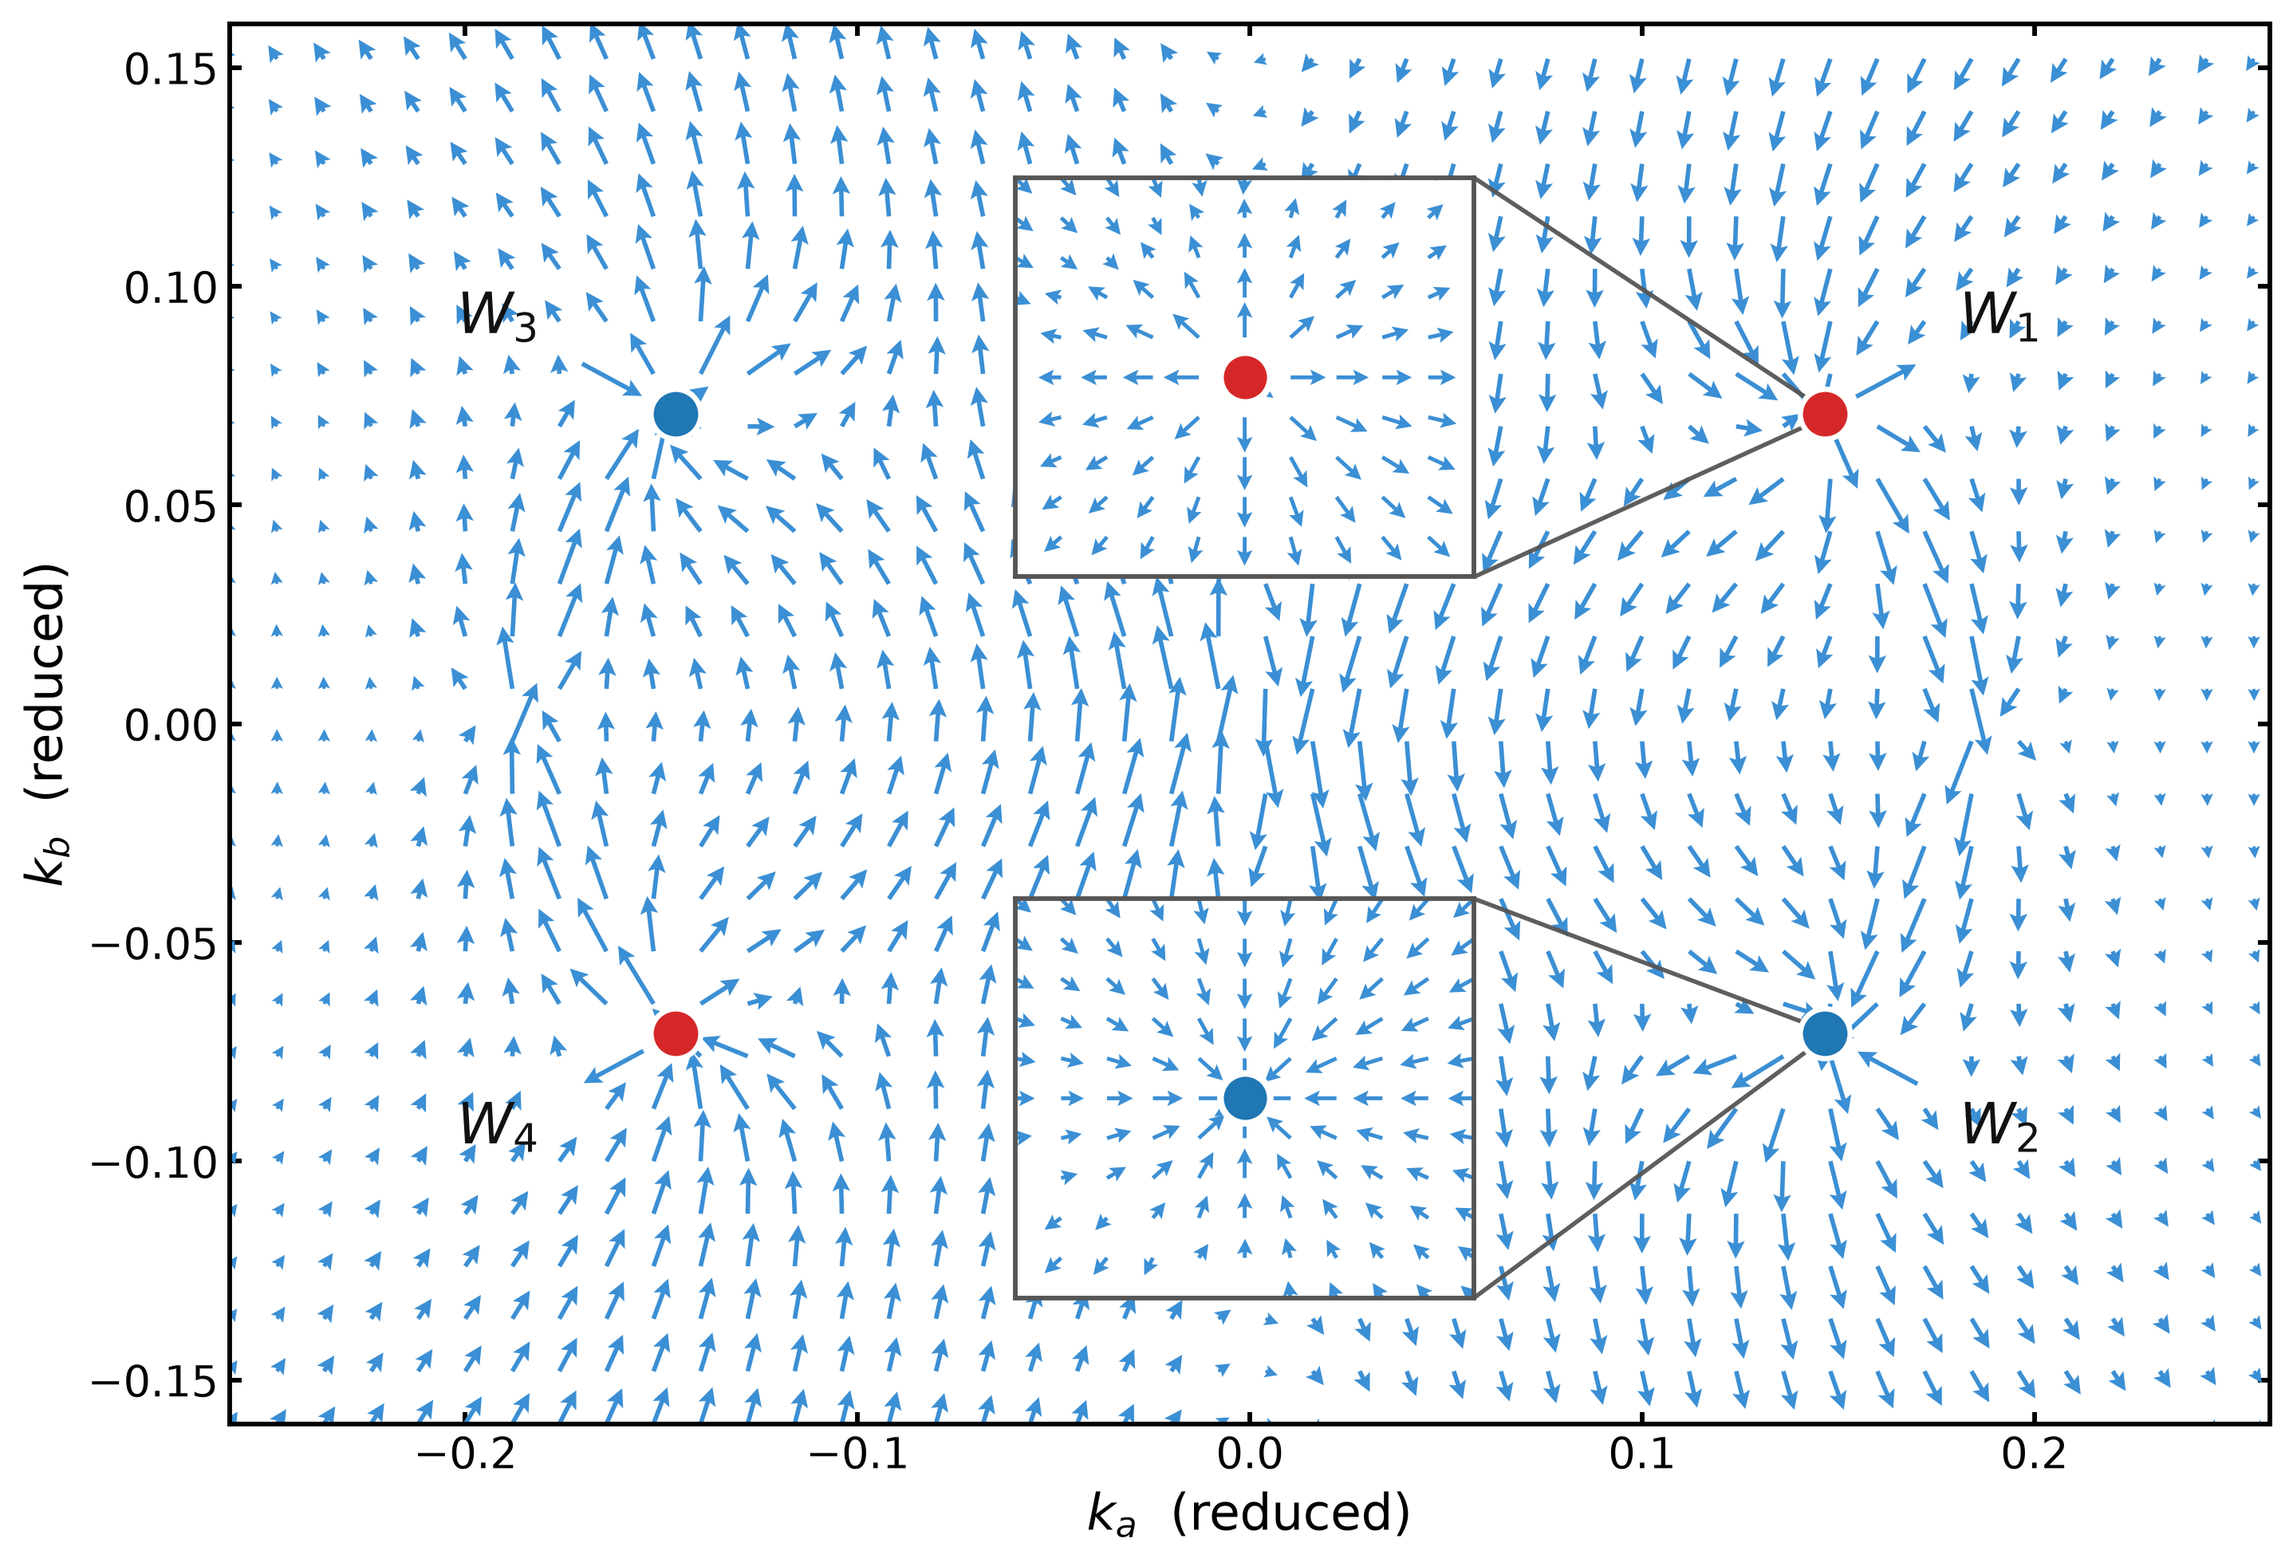
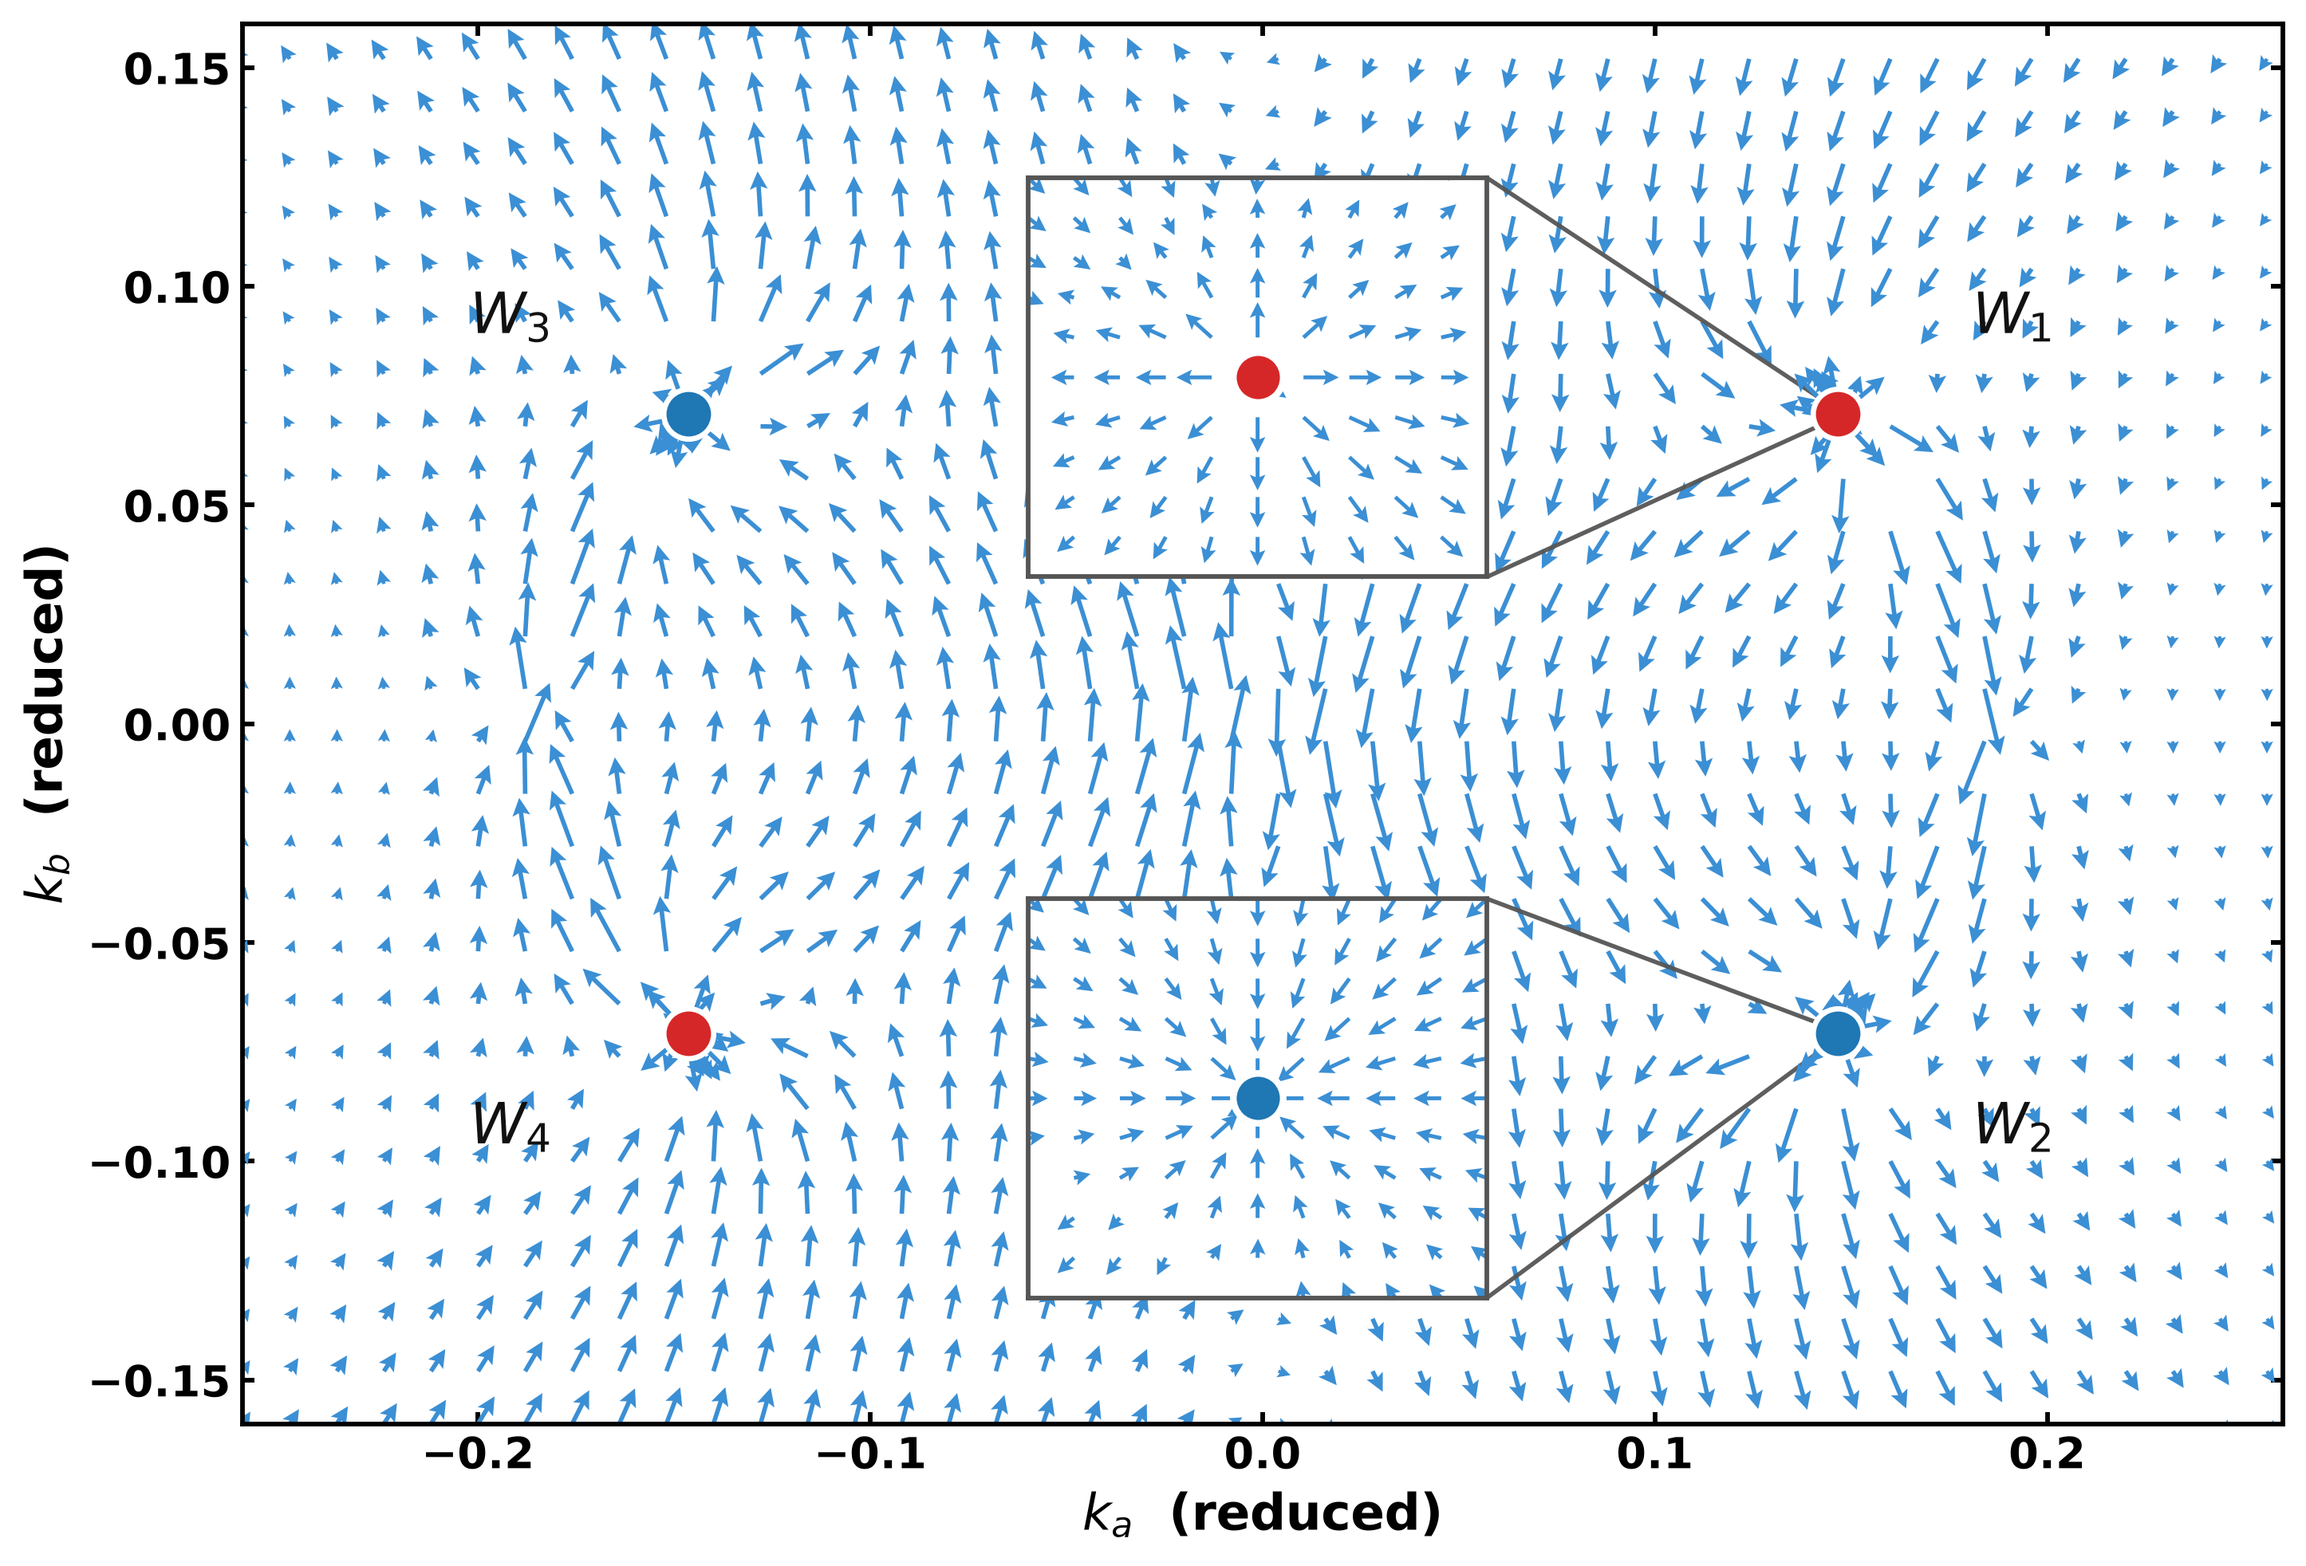
fig9: 노드 최근접 링 복원(실측·배경제거), 글자 bold
- 단일 화살표 대신 노드마다 실측 링(r=0.0006, 0.0025 / 각 8방향)을 다시 얹었다.
  격자와 같은 quiver 호출, 같은 scaled() 스케일링이라 규격이 완전히 동일하다.
- 겹치는 격자 화살표는 선분 최소거리(0.085 inch) 로 판정해 제거.
- 축 라벨과 눈금 라벨을 bold 로 (노드 라벨은 이미 bold).

Claude-Session: https://claude.ai/code/session_01QhAUpBYpemnn6yKhi2Mgwn

diff --git a/scripts/figs/fig9_berry_field.py b/scripts/figs/fig9_berry_field.py
@@ -231,17 +231,13 @@ SCALE, WIDTH = 30, 0.0022
 GX, GY = A.ravel(), B.ravel()
 GU, GV = (c.ravel() for c in scaled(Oa[::st, ::st].copy(), Ob[::st, ::st].copy()))
 
-# 노드 화살표.  격자와 같은 quiver 에 넣어야 규격이 완전히 같아진다.
-# quiver 길이 = 성분 / SCALE × 축 가로폭 이므로, 성분 1.0 이 격자 최대 길이다.
+# 노드 최근접 화살표.  격자(간격 0.012)는 monopole 영역(r<=0.0008)을 표본조차
+# 못 하므로, 노드마다 실측 링(r = 0.0006, 0.0025 / 각 8방향, 링평균=국소배경을
+# 뺀 값)을 같은 quiver 에 넣는다.  규격이 완전히 같아야 하므로 성분 스케일링도
+# 격자와 같은 scaled() 를 쓴다.
 ALEN = (ka[-1] - ka[0]) / SCALE
-AL0 = 0.009                                    # 노드에서 화살표 시작까지
-NX, NY, NU, NV = [], [], [], []
-for a, bb, c in NODES:
-    u = np.array([a, bb]) / np.hypot(a, bb)    # Γ 에서 멀어지는 방향
-    base = np.array([a, bb]) + u * (AL0 if c > 0 else AL0 + ALEN)
-    NX.append(base[0]); NY.append(base[1])
-    NU.append(u[0] * (1 if c > 0 else -1)); NV.append(u[1] * (1 if c > 0 else -1))
-NX, NY, NU, NV = map(np.asarray, (NX, NY, NU, NV))
+NX, NY = rP[:, 0], rP[:, 1]
+NU, NV = scaled(rO[:, 0].copy(), rO[:, 1].copy(), lo=2, hi=98, floor=0.55)
 
 # 노드 화살표와 겹치는 격자 화살표는 뺀다 (선분 표본 사이 최소거리로 판정).
 # 데이터 단위는 x,y 축척이 달라 인치로 환산해 시각적 거리로 잰다.
@@ -288,7 +284,9 @@ for (a, bb, c), xa, xb, ua, ub, loc in zip(
     ax.indicate_inset_zoom(axi, edgecolor='#555555', alpha=0.95, lw=1.3)
 
 ax.set_xlim(ka[0], ka[-1]); ax.set_ylim(kb[0], kb[-1])
-ax.set_xlabel('$k_a$  (reduced)')
-ax.set_ylabel('$k_b$  (reduced)')
+ax.set_xlabel('$k_a$  (reduced)', fontweight='bold')
+ax.set_ylabel('$k_b$  (reduced)', fontweight='bold')
+for lab in ax.get_xticklabels() + ax.get_yticklabels():
+    lab.set_fontweight('bold')
 fig.savefig('figs/fig9_berry_field.png')
 print('fig9 저장.  주 격자 %d x %d,  인셋 %d x %d' % (len(ka), len(kb), lka.shape[1], lkb.shape[1]))
